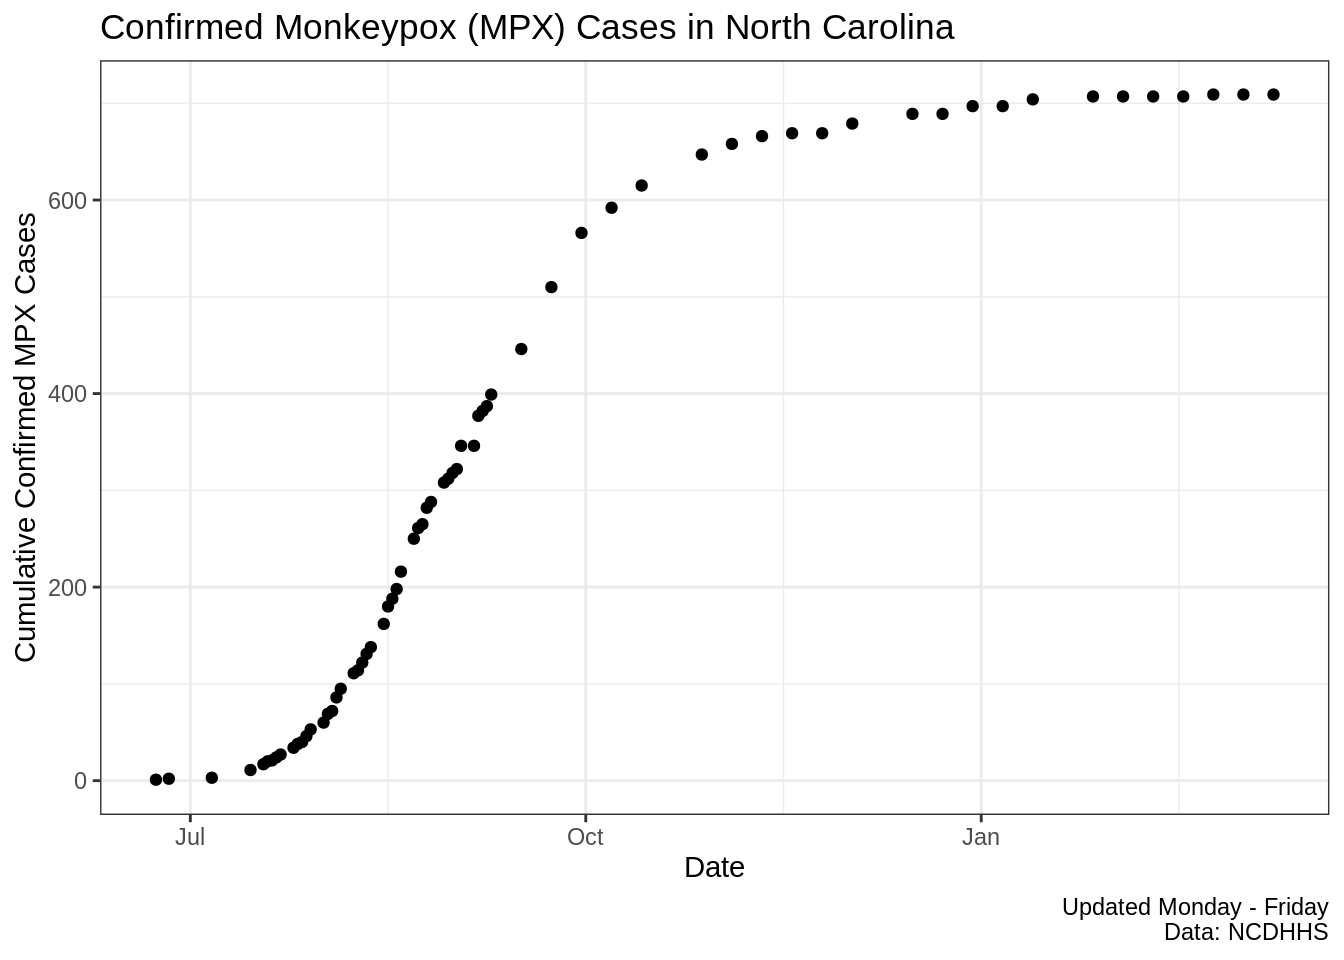
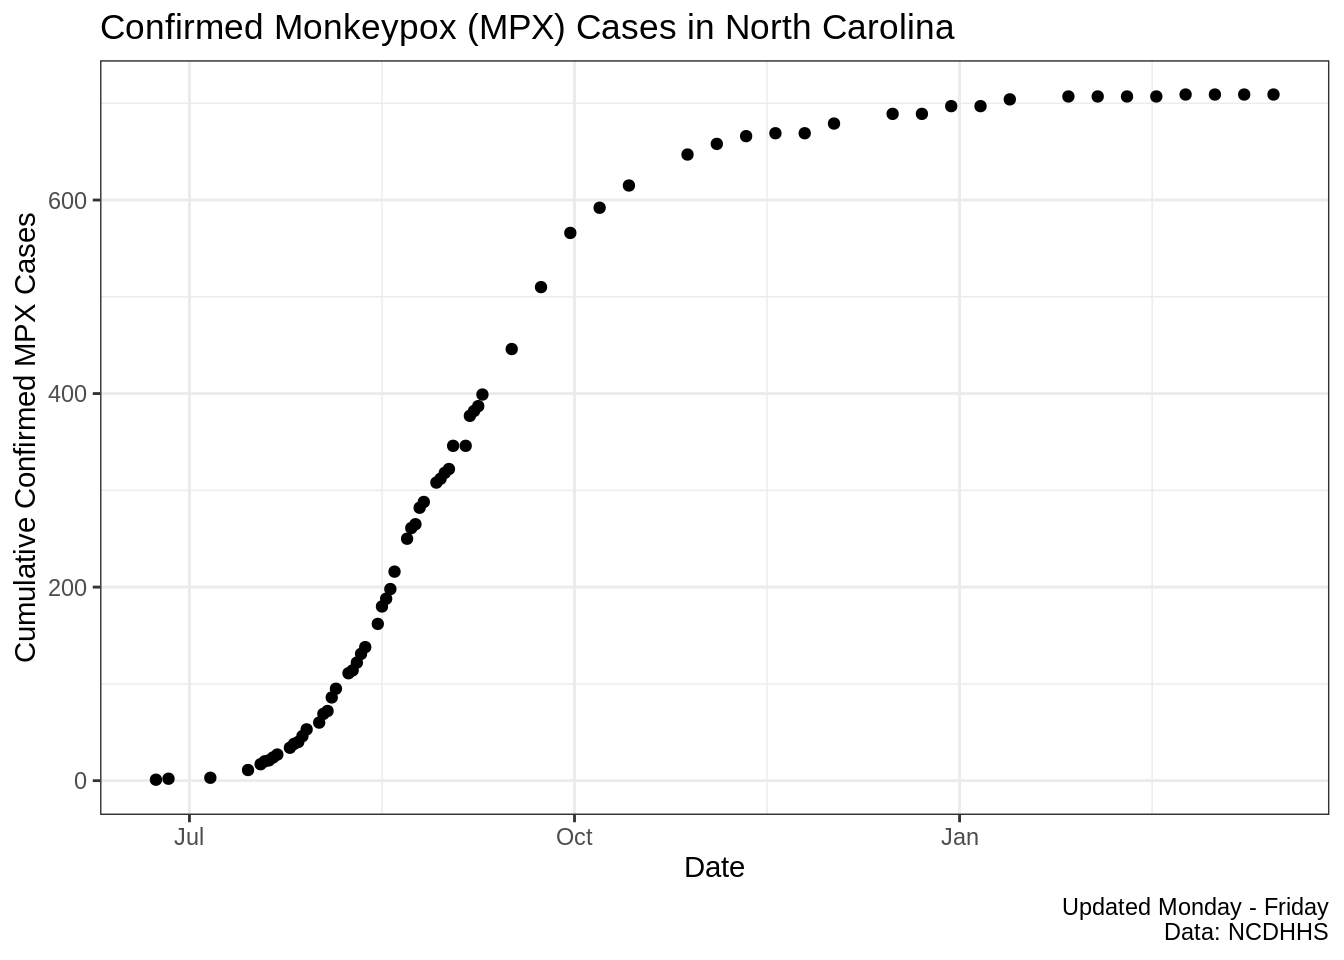
Update the latest data

diff --git a/docs/index.html b/docs/index.html
@@ -144,7 +144,7 @@ ul.task-list li input[type="checkbox"] {
 <div class="cell">
 
 </div>
-<p>These data are current as of 10 March, 2023. Current case incidence suggests a doubling time of 247 (95% CI, 194.1-339.2) days.</p>
+<p>These data are current as of 17 March, 2023. Current case incidence suggests a doubling time of 281 (95% CI, 219.2-391) days.</p>
 <div class="cell">
 <div class="cell-output-display">
 <p><img src="index_files/figure-html/unnamed-chunk-2-1.png" class="img-fluid" width="672"></p>
